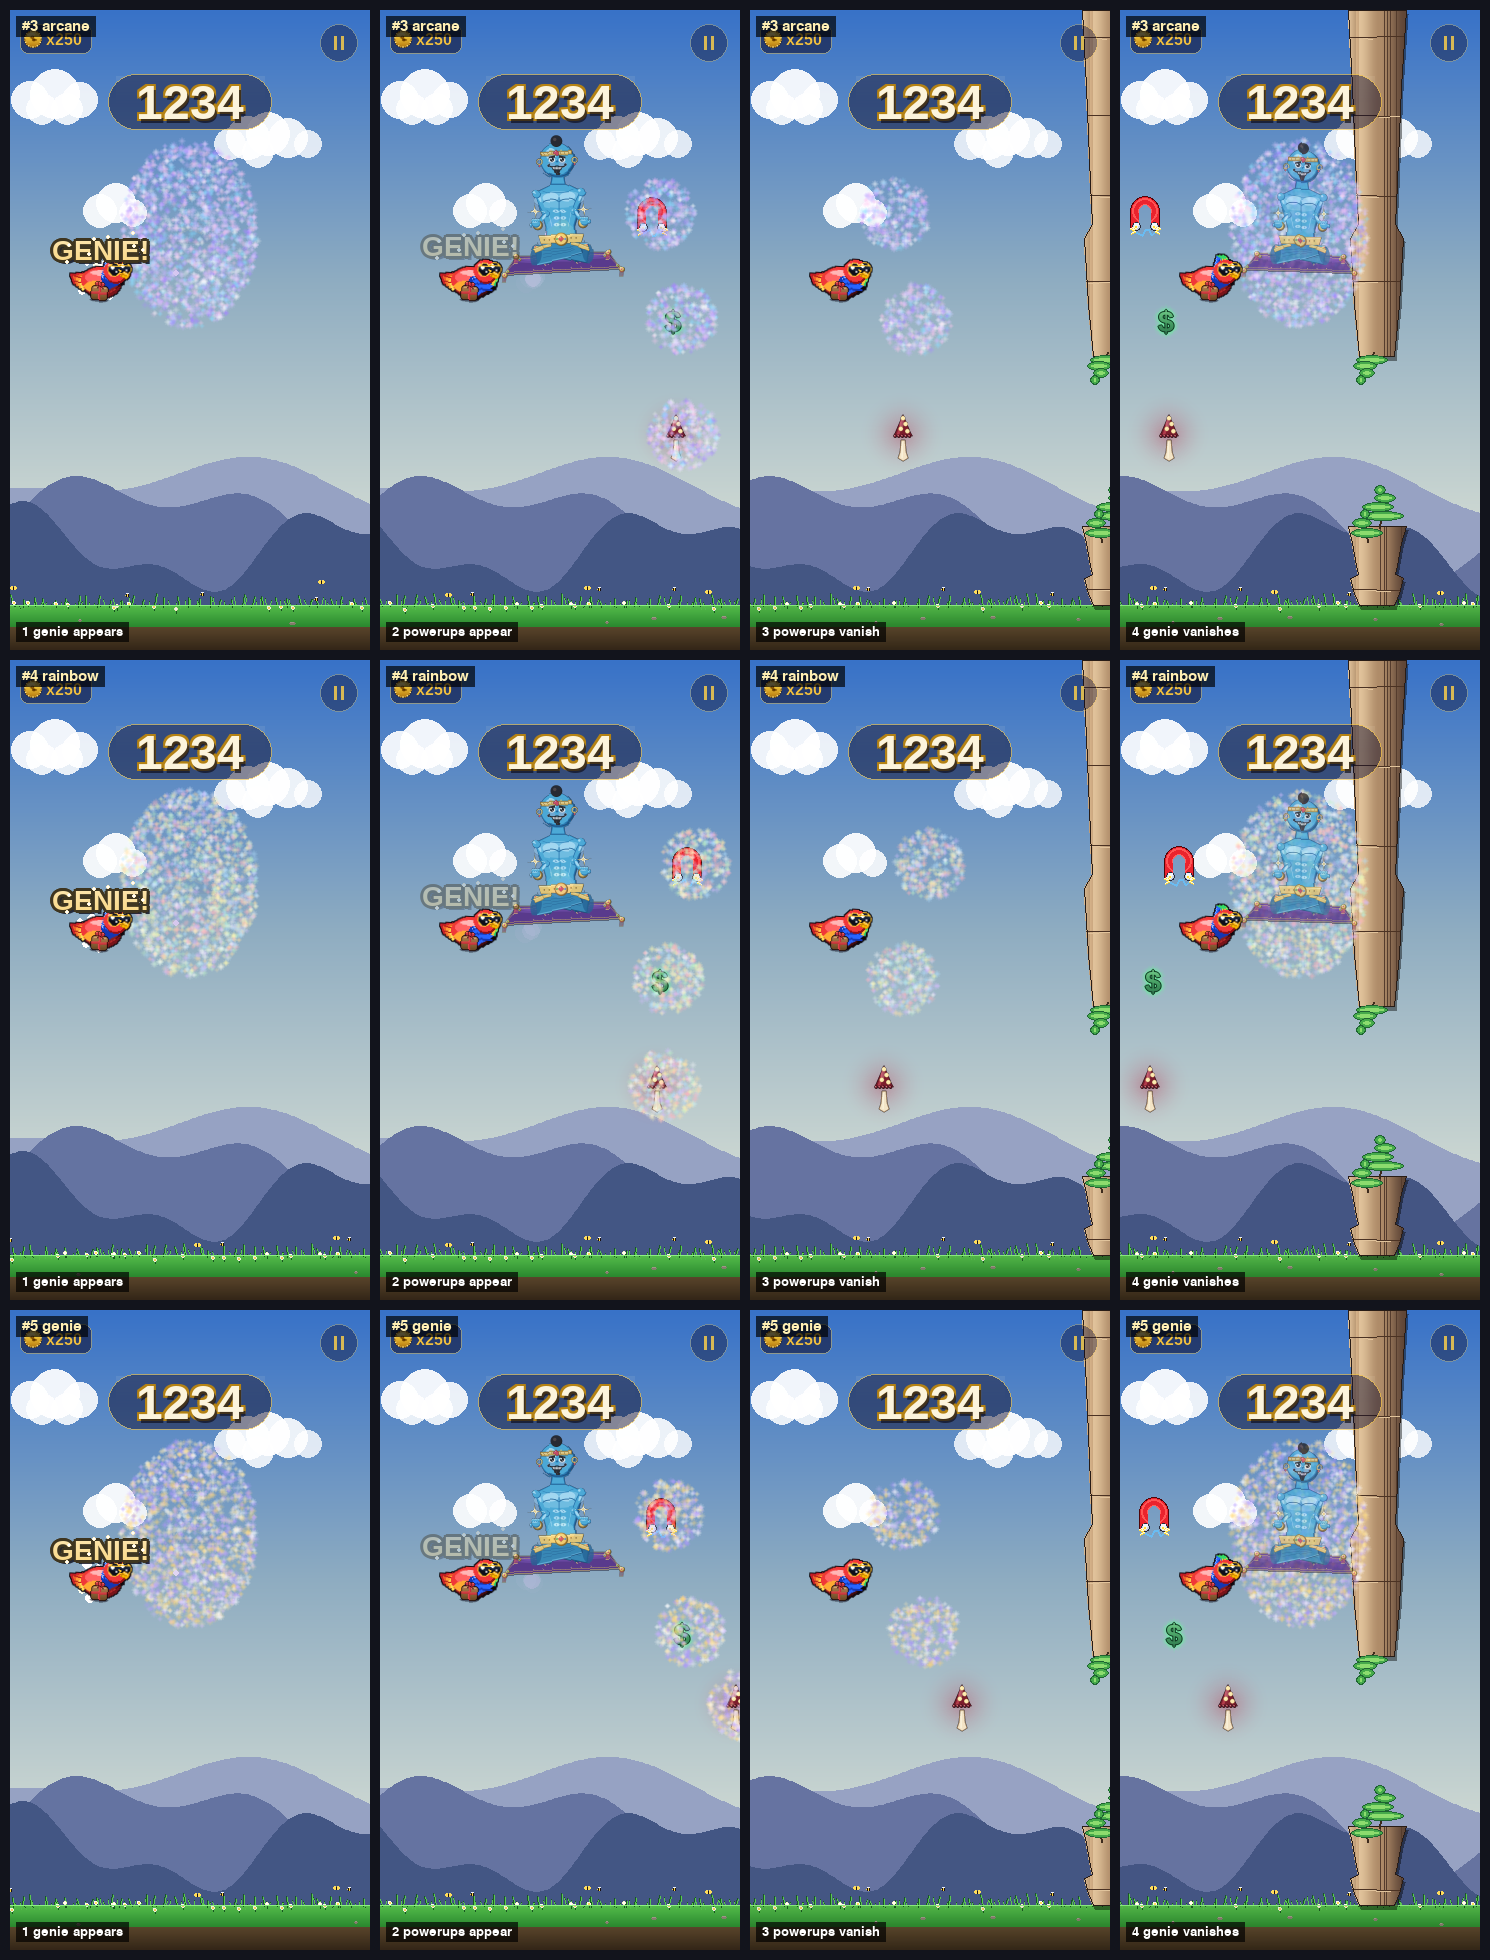
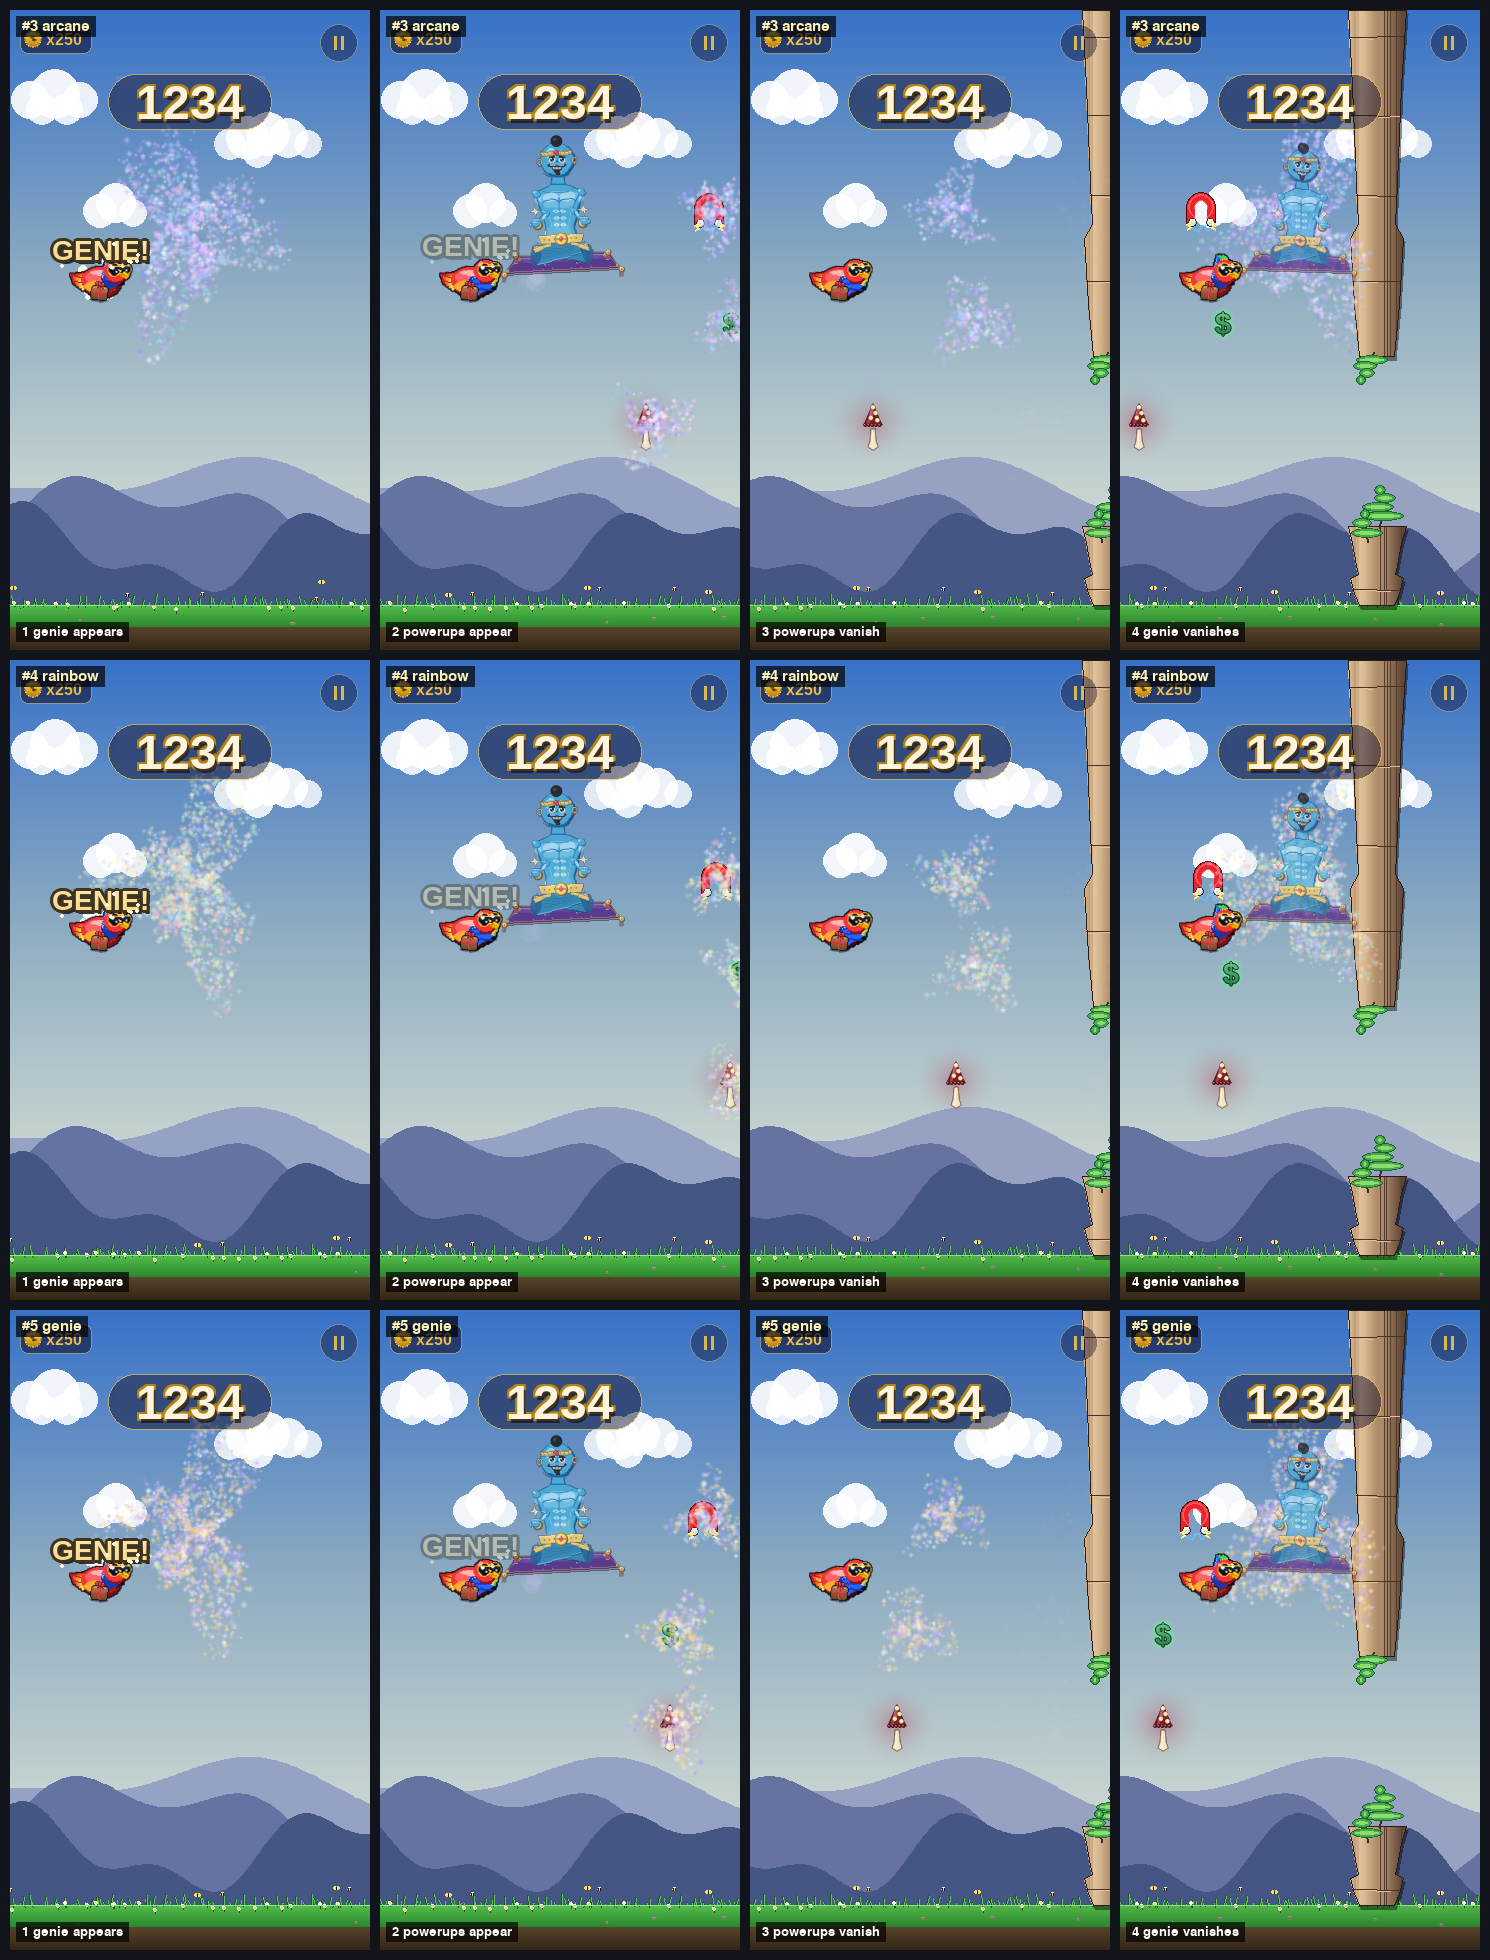
genie: organic, swirling magic-dust burst (no round blob)
_spawn_grainy_poof now bursts dust OUT of the source with a ragged,
lobed, swirling outline — concentrated near the body, trailing into
wisps/tendrils, with a tangential swirl — so it reads as a natural
magical puff emanating from the genie instead of a smooth circle. Same
organic shape scales down for the offer powerups. Regenerates demos.

https://claude.ai/code/session_01Ms85cBEeRiAtxZBCNh5vN5

diff --git a/game/world.py b/game/world.py
@@ -2195,32 +2195,44 @@ class World:
             self.particles.append(CloudPuff(x, y, vx, vy, life, r0, r1, color))
 
     def _spawn_grainy_poof(self, x, y, palette=None, n=None, rx=34, ry=34):
-        """Magic-dust poof (design #5 'genie gold+violet'). Fills an
-        ELLIPSE of half-extents (rx, ry) around (x, y) with fine
-        twinkling motes, so the cloud's AREA matches whatever is
-        poofing — a tight puff for a small offer powerup, a big cloud
-        enveloping the whole genie. Motes start spread across the
-        ellipse and drift gently outward; count auto-scales with area
-        to hold density."""
+        """Magic-dust poof (design #5 'genie gold+violet'). Bursts dust
+        OUT of the source with an irregular, lobed, swirling outline —
+        denser near the body, trailing into wisps and tendrils — so it
+        reads as a natural, magical puff coming OUT of the genie rather
+        than a smooth round blob. (rx, ry) set the reach, so the same
+        organic shape scales: a big burst around the genie, a small one
+        on each offer powerup."""
         if palette is None:
             palette = [(255, 255, 255), (255, 235, 180), (255, 215, 120),
                        (210, 185, 255), (175, 150, 255)]
         if n is None:
-            # Dense enough that the soft motes overlap into a continuous
-            # cloud rather than reading as scattered confetti.
             n = max(140, int(rx * ry * 0.28))
+        # Per-burst lobe phases so every poof has its own ragged outline.
+        p1 = random.uniform(0, math.tau)
+        p2 = random.uniform(0, math.tau)
         for _ in range(n):
-            a  = random.uniform(0, math.tau)
-            rr = math.sqrt(random.random())          # even area fill
-            px = x + math.cos(a) * rx * rr
-            py = y + math.sin(a) * ry * rr
-            dx, dy = px - x, py - y
-            d = math.hypot(dx, dy) or 1.0
-            spd = random.uniform(5, 32)
-            vx = dx / d * spd                         # gentle outward drift
-            vy = dy / d * spd - random.uniform(5, 22)
-            life = random.uniform(0.45, 0.95)
-            size = random.choice((3, 3, 4, 4))        # soft motes that overlap
+            a = random.uniform(0, math.tau)
+            # Ragged per-angle reach (a few lobes + ripple + jitter) so the
+            # cloud edge is organic, never a clean circle.
+            reach = (0.85
+                     + 0.42 * math.sin(3 * a + p1)
+                     + 0.20 * math.sin(7 * a + p2)
+                     + random.uniform(-0.12, 0.12))
+            reach = max(0.18, reach)
+            # Concentrate motes near the body; the tail of the
+            # distribution streams out as wisps.
+            rr = random.random() ** 0.62
+            dist = rr * reach
+            px = x + math.cos(a) * rx * dist
+            py = y + math.sin(a) * ry * dist
+            # Emanate outward from the source (faster the further out, so
+            # it keeps blooming OUT of the genie) + a magical swirl + rise.
+            out = random.uniform(16, 70) * (0.35 + dist)
+            swirl = random.uniform(-44, 44)
+            vx = math.cos(a) * out - math.sin(a) * swirl
+            vy = math.sin(a) * out + math.cos(a) * swirl - random.uniform(8, 26)
+            life = random.uniform(0.45, 1.0)
+            size = random.choice((2, 3, 3, 4))
             self.particles.append(
                 PoofGrain(px, py, vx, vy, life, size, random.choice(palette)))
 

diff --git a/tools/render_genie_phases.py b/tools/render_genie_phases.py
@@ -53,18 +53,25 @@ def _patch_palette(w, palette, _n):
     size (rx/ry are passed by the genie / offer callers)."""
     def _poof(self, x, y, palette_arg=None, n=None, rx=34, ry=34):
         cnt = n if n is not None else max(140, int(rx * ry * 0.28))
+        p1 = random.uniform(0, math.tau)
+        p2 = random.uniform(0, math.tau)
         for _ in range(cnt):
-            a  = random.uniform(0, math.tau)
-            rr = math.sqrt(random.random())
-            px = x + math.cos(a) * rx * rr
-            py = y + math.sin(a) * ry * rr
-            dx, dy = px - x, py - y
-            d = math.hypot(dx, dy) or 1.0
-            spd = random.uniform(5, 32)
-            vx = dx / d * spd
-            vy = dy / d * spd - random.uniform(5, 22)
-            life = random.uniform(0.45, 0.95)
-            size = random.choice((3, 3, 4, 4))
+            a = random.uniform(0, math.tau)
+            reach = (0.85
+                     + 0.42 * math.sin(3 * a + p1)
+                     + 0.20 * math.sin(7 * a + p2)
+                     + random.uniform(-0.12, 0.12))
+            reach = max(0.18, reach)
+            rr = random.random() ** 0.62
+            dist = rr * reach
+            px = x + math.cos(a) * rx * dist
+            py = y + math.sin(a) * ry * dist
+            out = random.uniform(16, 70) * (0.35 + dist)
+            swirl = random.uniform(-44, 44)
+            vx = math.cos(a) * out - math.sin(a) * swirl
+            vy = math.sin(a) * out + math.cos(a) * swirl - random.uniform(8, 26)
+            life = random.uniform(0.45, 1.0)
+            size = random.choice((2, 3, 3, 4))
             self.particles.append(
                 PoofGrain(px, py, vx, vy, life, size, random.choice(palette)))
     w._spawn_grainy_poof = types.MethodType(_poof, w)
